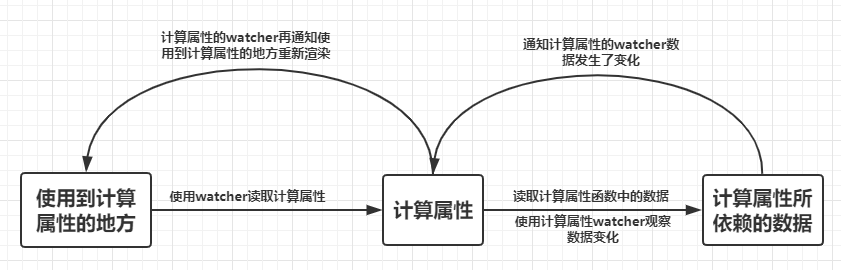
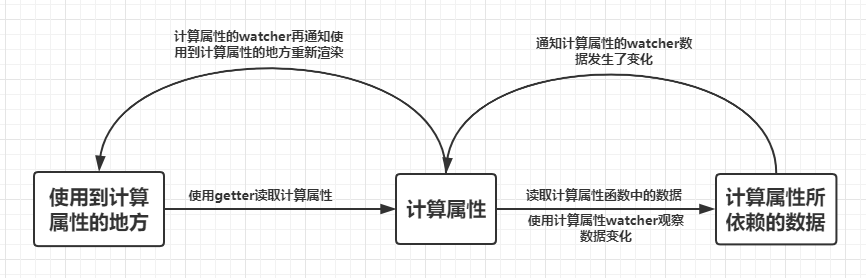
feat: 修改computed初始化时的逻辑

diff --git a/docs/lifecycle/initState.md b/docs/lifecycle/initState.md
@@ -888,8 +888,6 @@ if (!isReserved(key)) {
 observe(data, true /* asRootData */)
 ```
 
-
-
 ## 6. 初始化computed
 
 计算属性`computed`相信大家一定不会陌生，在日常开发中肯定会经常用到，而且我们知道计算属性有一个很大的特点就是： 计算属性的结果会被缓存，除非依赖的响应式属性变化才会重新计算。 那么接下来我们就来看一下计算属性是如何实现这些功能的的。
@@ -973,7 +971,7 @@ function initComputed (vm: Component, computed: Object) {
 const watchers = vm._computedWatchers = Object.create(null)
 ```
 
-接着，遍历`computed`选项中的每一项属性，首先获取到每一项的属性值，记作`userDef`，然后判断`userDef`是不是一个函数，如果是函数，则该函数默认为取值器`getter`，将其赋值给变量`getter`；如果不是函数，则说明是一个对象，则取对象中的`get`属性作为取值器赋给变量`getter`。如下：
+接着，遍历用户写的`computed`选项中的每一项属性，首先获取到每一项的属性值，记作`userDef`，然后判断`userDef`是不是一个函数，如果是函数，则将该函数默认为取值器`getter`，将其赋值给变量`getter`；如果不是函数，则说明是一个对象，则取对象中的`get`属性作为取值器赋给变量`getter`。如下：
 
 ```javascript
 const userDef = computed[key]
@@ -991,7 +989,7 @@ if (process.env.NODE_ENV !== 'production' && getter == null) {
 }
 ```
 
-接着判断如果不是在服务端渲染环境下，则创建一个`watcher`实例，并将当前循环到的的属性名作为键，创建的`watcher`实例作为值存入`watchers`对象中。如下：
+接着判断如果不是在服务端渲染环境下，则为 `computed` 选项中的每一项属性创建一个 `watcher` 实例，并将当前循环到的的属性名作为键，创建的`watcher` 实例作为值，存入 `watchers` 对象中。如下：
 
 ```javascript
 if (!isSSR) {
@@ -1005,15 +1003,21 @@ if (!isSSR) {
 }
 ```
 
-最后，判断当前循环到的的属性名是否存在于当前实例`vm`上，如果存在，则在非生产环境下抛出警告；如果不存在，则调用`defineComputed`函数为实例`vm`上设置计算属性。
+其中，上面代码中创建 `watcher` 实例时所传入的 `getter` 就是取到用户所写的该计算属性的取值器。而 `computedWatcherOptions` 参数如下：
 
-以上就是`initComputed`函数的内部逻辑，接下里我们再来看一下`defineComputed`函数是如何为实例`vm`上设置计算属性的。
+```javascript
+const computedWatcherOptions = { lazy: true }
+```
+
+这个参数是用来标记当前所创建的 `watcher` 实例是一个计算属性的 `watcher` 实例，给它一个 `{ lazy: true }` 的配置，这是为将来计算属性值缓存做准备。众所周知，计算属性有个特点就是它可以缓存当前的计算结果，也就是说如果某个计算属性所依赖的数据没有发生变化，那么该计算属性就不会去重复计算，会直接获取上一次的计算结果。这个 `{ lazy: true }` 就是给计算属性做缓存时用的。
+
+最后，判断当前循环到的的属性名是否存在于当前实例 `vm` 上，如果存在，则在非生产环境下抛出警告；如果不存在，则调用 `defineComputed` 函数为实例 `vm` 上设置计算属性。
+
+以上就是 `initComputed` 函数的内部逻辑，接下来我们再来看一下 `defineComputed` 函数是如何为实例 `vm` 上设置计算属性的。
 
 ### 6.3 defineComputed函数分析
 
-
-
-`defineComputed`函数的定义位于源码的`src/core/instance/state.js`中，如下：
+`defineComputed` 函数的定义位于源码的 `src/core/instance/state.js` 中，如下：
 
 ```javascript
 const sharedPropertyDefinition = {
@@ -1055,41 +1059,55 @@ export function defineComputed (target,key,userDef) {
 
 ```
 
-该函数接受3个参数，分别是：`target`、`key`和`userDef`。其作用是为`target`上定义一个属性`key`，并且属性`key`的`getter`和`setter`根据`userDef`的值来设置。下面我们就来看一下该函数的具体逻辑。
+该函数接受3个参数，分别是：`target` 、 `key` 和 `userDef` 。其作用是为 `target` 上定义一个属性 `key` ，并且属性 `key` 的 `getter` 和 `setter` 根据 `userDef` 的值来设置。下面我们就来看一下该函数的具体逻辑。
 
-首先定义了变量`sharedPropertyDefinition`，它是一个默认的属性描述符。
+首先定义了变量 `sharedPropertyDefinition` ，它是一个默认的属性描述符，如下：
 
-接着，在函数内部定义了变量`shouldCache`，用于标识计算属性是否应该有缓存。该变量的值是当前环境是否为非服务端渲染环境，如果是非服务端渲染环境则该变量为`true`。也就是说，只有在非服务端渲染环境下计算属性才应该有缓存。如下：
+```javascript
+const sharedPropertyDefinition = {
+  enumerable: true,
+  configurable: true,
+  get: noop,
+  set: noop
+}
+```
+
+接着，在函数内部定义了变量 `shouldCache` ，用于标识计算属性是否应该有缓存。该变量的值是当前环境是否为非服务端渲染环境，如果是非服务端渲染环境则该变量为 `true` 。也就是说，只有在非服务端渲染环境下计算属性才应该有缓存。如下：
 
 ```javascript
 const shouldCache = !isServerRendering()
 ```
 
-接着，判断如果`userDef`是一个函数，则该函数默认为取值器`getter`，此处在非服务端渲染环境下并没有直接使用`userDef`作为`getter`，而是调用`createComputedGetter`函数（关于该函数下面会介绍）创建了一个`getter`，这是因为`userDef`只是一个普通的`getter`，它并没有缓存功能，所以我们需要额外创建一个具有缓存功能的`getter`，而在服务端渲染环境下可以直接使用`userDef`作为`getter`，因为在服务端渲染环境下计算属性不需要缓存。由于用户没有设置`setter`函数，所以将`sharedPropertyDefinition.set`设置为`noop`。如下：
+接着，判断如果 `userDef` 是一个函数，则该函数默认为取值器 `getter` ，此处在非服务端渲染环境下并没有直接使用 `userDef` 作为 `getter` ，而是调用 `createComputedGetter` 函数（关于该函数下面会介绍）创建了一个 `getter` ，这是因为 `userDef` 只是一个普通的 `getter` ，它并没有缓存功能，所以我们需要额外创建一个具有缓存功能的 `getter` 。由于用户没有设置 `setter` 函数，所以将 `sharedPropertyDefinition.set` 设置为 `noop` 。如下：
 
 ```javascript
+/*创建计算属性的getter*/
 if (typeof userDef === 'function') {
-    sharedPropertyDefinition.get = shouldCache
-        ? createComputedGetter(key)
-    : userDef
-    sharedPropertyDefinition.set = noop
+  sharedPropertyDefinition.get = shouldCache
+    ? createComputedGetter(key)
+    : createGetterInvoker(userDef)
+  /*
+    当userDef是一个function的时候是不需要setter的，所以这边给它设置成了空函数。
+    因为计算属性默认是一个function，只设置getter。
+    当需要设置setter的时候，会将计算属性设置成一个对象。
+  */
+  sharedPropertyDefinition.set = noop
 }
 ```
 
-如果`userDef`不是一个函数，那么就将它当作对象处理。在设置`sharedPropertyDefinition.get`的时候先判断`userDef.get`是否存在，如果不存在，则将其设置为`noop`，如果存在，则同上面一样，在非服务端渲染环境下并且用户没有明确的将`userDef.cache`设置为`false`时调用`createComputedGetter`函数创建一个`getter`赋给`sharedPropertyDefinition.get`。然后设置`sharedPropertyDefinition.set`为`userDef.set`函数。如下：
+如果 `userDef` 不是一个函数，那么就将它当作对象处理。在设置 `sharedPropertyDefinition.get` 的时候先判断 `userDef.get` 是否存在，如果不存在，则将其设置为 `noop` ，如果存在，则同上面一样，在非服务端渲染环境下并且用户没有明确的将 `userDef.cache` 设置为 `false` 时调用 `createComputedGetter` 函数创建一个 `getter` 赋给 `sharedPropertyDefinition.get` 。然后设置 `sharedPropertyDefinition.set` 为 `userDef.set` 函数。如下：
 
 ```javascript
 sharedPropertyDefinition.get = userDef.get
-      ? shouldCache && userDef.cache !== false
-        ? createComputedGetter(key)
-        : userDef.get
-      : noop
-sharedPropertyDefinition.set = userDef.set
-    ? userDef.set
-	: noop
+  ? shouldCache && userDef.cache !== false
+    ? createComputedGetter(key)
+    : createGetterInvoker(userDef.get)
+  : noop
+/*如果有设置set方法则直接使用，否则赋值空函数*/
+sharedPropertyDefinition.set = userDef.set || noop
 ```
 
-接着，再判断在非生产环境下如果用户没有设置`setter`的话，那么就给`setter`一个默认函数，这是为了防止用户在没有设置`setter`的情况下修改计算属性，从而为其抛出警告，如下：
+接着，再判断在非生产环境下如果用户没有设置 `setter` 的话，那么就给 `setter` 一个默认函数，这是为了防止用户在没有设置 `setter` 的情况下修改计算属性，从而为其抛出警告，如下：
 
 ```javascript
 if (process.env.NODE_ENV !== 'production' &&
@@ -1103,9 +1121,9 @@ if (process.env.NODE_ENV !== 'production' &&
 }
 ```
 
-最后调用`Object.defineProperty`方法将属性`key`绑定到`target`上，其中的属性描述符就是上面设置的`sharedPropertyDefinition`。如此以来，就将计算属性绑定到实例`vm`上了。
+最后调用 `Object.defineProperty` 方法将属性 `key` 绑定到 `target` 上，其中的属性描述符就是上面设置的 `sharedPropertyDefinition` 。如此以来，就将计算属性绑定到实例 `vm` 上了。
 
-以上就是`defineComputed`函数的所有逻辑。另外，我们发现，计算属性有没有缓存及其响应式貌似主要在于是否将`getter`设置为`createComputedGetter`函数的返回结果。那么接下来，我们就对这个`createComputedGetter`函数一探究竟。
+以上就是 `defineComputed` 函数的所有逻辑。另外，我们发现，计算属性有没有缓存及其响应式貌似主要在于是否将 `getter` 设置为 `createComputedGetter` 函数的返回结果。那么接下来，我们就对这个 `createComputedGetter` 函数一探究竟。
 
 ### 6.4 createComputedGetter函数分析
 
@@ -1113,127 +1131,149 @@ if (process.env.NODE_ENV !== 'production' &&
 
 ```javascript
 function createComputedGetter (key) {
-    return function computedGetter () {
-        const watcher = this._computedWatchers && this._computedWatchers[key]
-        if (watcher) {
-            watcher.depend()
-            return watcher.evaluate()
-        }
+  return function computedGetter () {
+    const watcher = this._computedWatchers && this._computedWatchers[key]
+    if (watcher) {
+      /*实际是脏检查，在计算属性中的依赖发生改变的时候dirty会变成true，
+      在get的时候重新计算计算属性的输出值*/
+      if (watcher.dirty) {
+        watcher.evaluate()
+      }
+      /*依赖收集*/
+      if (Dep.target) {
+        watcher.depend()
+      }
+      return watcher.value
     }
+  }
 }
 ```
 
-可以看到，该函数是一个高阶函数，其内部返回了一个`computedGetter`函数，所以其实是将`computedGetter`函数赋给了`sharedPropertyDefinition.get`。当获取计算属性的值时会执行属性的`getter`，而属性的`getter`就是 `sharedPropertyDefinition.get`，也就是说最终执行的 `computedGetter`函数。
+可以看到，该函数是一个高阶函数，其内部返回了一个叫做 `computedGetter` 的函数，所以其实是将 `computedGetter` 函数赋给了 `sharedPropertyDefinition.get` 。当获取计算属性的值时会执行属性的 `getter` ，而属性的 `getter` 就是 `sharedPropertyDefinition.get` ，也就是说最终执行的 `computedGetter` 函数。
 
-在`computedGetter`函数内部，首先存储在当前实例上`_computedWatchers`属性中`key`所对应的`watcher`实例，如果`watcher`存在，则调用`watcher`实例上的`depend`方法和`evaluate`方法，并且将`evaluate`方法的返回值作为计算属性的计算结果返回。那么`watcher`实例上的`depend`方法和`evaluate`方法又是什么呢？
+在 `computedGetter` 函数内部，首先获取之前创建好的存储在实例上 `_computedWatchers` 属性中当前计算属性名 `key` 所对应的 `watcher` 实例，如下：
+
+```javascript
+const watcher = this._computedWatchers && this._computedWatchers[key]
+```
+
+如果 `watcher` 实例存在，则判断该实例上的 `dirty` 属性是否为 `true` ，如果为 `true` ，即表明当前计算属性的计算结果发生了变化，则立即调用实例上的 `evaluate` 方法获取最新的计算结果，在 `evaluate` 方法内部会将最新的计算结果赋值给实例上的 `value` 属性（在下面会介绍），如下：
+
+```javascript
+if (watcher.dirty) {
+  watcher.evaluate()
+}
+```
+
+如果当前有需要收集的依赖，则调用实例上的 `depend` 方法进行依赖收集，如下：
+
+```javascript
+if (Dep.target) {
+  watcher.depend()
+}
+```
+
+最后，返回实例上的 `value` 属性，该属性即为当前计算属性的最终计算结果。
+那么 `watcher` 实例上的 `depend` 方法和 `evaluate` 方法又是什么呢？
 
 ### 6.5 depend和evaluate
 
-回顾上文中创建`watcher`实例的时候：
-
-```javascript
-const computedWatcherOptions = { computed: true }
-watchers[key] = new Watcher(
-    vm,
-    getter || noop,
-    noop,
-    computedWatcherOptions
-)
-```
-
-传入的参数中第二个参数是`getter`函数，第四个参数是一个对象`computedWatcherOptions`。
-
-我们再回顾`Watcher`类的定义，如下：
+我们再回顾 `Watcher` 类的定义，如下：
 
 ```javascript
 export default class Watcher {
-    constructor (vm,expOrFn,cb,options,isRenderWatcher) {
-        if (options) {
-            // ...
-            this.computed = !!options.computed
-            // ...
-        } else {
-            // ...
-        }
-
-        this.dirty = this.computed // for computed watchers
-        if (typeof expOrFn === 'function') {
-            this.getter = expOrFn
-        }
-
-        if (this.computed) {
-            this.value = undefined
-            this.dep = new Dep()
-        }
+  constructor (vm,expOrFn,cb,options,isRenderWatcher) {
+    if (options) {
+      // ...
+      this.lazy = !!options.lazy
+      // ...
+    } else {
+      // ...
     }
 
-    evaluate () {
-        if (this.dirty) {
-            this.value = this.get()
-            this.dirty = false
-        }
-        return this.value
+    this.dirty = this.lazy 
+    /*把表达式expOrFn解析成getter*/
+    if (typeof expOrFn === 'function') {
+      this.getter = expOrFn
+    } else {
+      this.getter = parsePath(expOrFn)
+      if (!this.getter) {
+        this.getter = noop
+      }
     }
 
-    /**
-     * Depend on this watcher. Only for computed property watchers.
-     */
-    depend () {
-        if (this.dep && Dep.target) {
-            this.dep.depend()
-        }
-    }
+    this.value = this.lazy
+      ? undefined
+      : this.get()
+  }
 
-    update () {
-        if (this.computed) {
-            if (this.dep.subs.length === 0) {
-                this.dirty = true
-            } else {
-                this.getAndInvoke(() => {
-                    this.dep.notify()
-                })
-            }
-        }
-    }
+  evaluate () {
+    this.value = this.get()
+    this.dirty = false
+  }
 
-    getAndInvoke (cb: Function) {
-        const value = this.get()
-        if (
-            value !== this.value ||
-            // Deep watchers and watchers on Object/Arrays should fire even
-            // when the value is the same, because the value may
-            // have mutated.
-            isObject(value) ||
-            this.deep
-        ) {
-            // set new value
-            const oldValue = this.value
-            this.value = value
-            this.dirty = false
-            if (this.user) {
-                try {
-                    cb.call(this.vm, value, oldValue)
-                } catch (e) {
-                    handleError(e, this.vm, `callback for watcher "${this.expression}"`)
-                }
-            } else {
-                cb.call(this.vm, value, oldValue)
-            }
-        }
+  /**
+    * Depend on this watcher. Only for computed property watchers.
+    */
+  depend () {
+    if (this.dep && Dep.target) {
+      this.dep.depend()
     }
+  }
+
+  // 当依赖发生改变的时候触发回调。
+  update () {
+    /* istanbul ignore else */
+    if (this.lazy) {
+      this.dirty = true
+    } else if (this.sync) {
+      /*同步则执行run直接渲染视图*/
+      this.run()
+    } else {
+      /*异步推送到观察者队列中，下一个tick时调用。*/
+      queueWatcher(this)
+    }
+  }
 }
 ```
 
-可以看到，在实例化`Watcher`类的时候，第四个参数传入了一个对象`computedWatcherOptions = { computed: true }`，该对象中的`computed`属性标志着这个`watcher`实例是计算属性的`watcher`实例，即`Watcher`类中的`this.computed`属性，同时类中还定义了`this.dirty`属性用于标志计算属性的返回值是否有变化，计算属性的缓存就是通过这个属性来判断的，每当计算属性依赖的数据发生变化时，会将`this.dirty`属性设置为`true`，这样下一次读取计算属性时，会重新计算结果返回，否则直接返回之前的计算结果。
+可以看到，在实例化 `Watcher` 类的时候，第四个参数传入了一个对象 `computedWatcherOptions = { lazy: true }` ，该对象中的 `lazy` 属性标志着这个 `watcher` 实例是计算属性的 `watcher` 实例，同时类中还定义了 `this.dirty` 属性用于标志计算属性的返回值是否有变化，计算属性的缓存就是通过这个属性来判断的，每当计算属性依赖的数据发生变化时，会将 `this.dirty` 属性设置为 `true` ，这样下一次读取计算属性时，会重新计算结果返回，否则直接返回之前的计算结果。
 
-当调用`watcher.depend()`方法时，会将读取计算属性的那个`watcher`添加到计算属性的`watcher`实例的依赖列表中，当计算属性中用到的数据发生变化时，计算属性的`watcher`实例就会执行`watcher.update()`方法，在`update`方法中会判断当前的`watcher`是不是计算属性的`watcher`，如果是则调用`getAndInvoke`去对比计算属性的返回值是否发生了变化，如果真的发生变化，则执行回调，通知那些读取计算属性的`watcher`重新执行渲染逻辑。
+我们可以这样想，当我们在组件中定义了一个计算属性 `name` 并且在视图中使用了该属性时，视图第一次刷新会去获取 `name` 的属性值，此时就会调用该属性值的 `getter` 方法，这个 `getter` 方法就是 `computedGetter` ，如下：
 
-当调用`watcher.evaluate()`方法时，会先判断`this.dirty`是否为`true`，如果为`true`，则表明计算属性所依赖的数据发生了变化，则调用`this.get()`重新获取计算结果最后返回；如果为`false`，则直接返回之前的计算结果。
+```javascript
+function computedGetter () {
+  const watcher = this._computedWatchers && this._computedWatchers[key]
+  if (watcher) {
+    if (watcher.dirty) {
+      watcher.evaluate()
+    }
+    if (Dep.target) {
+      watcher.depend()
+    }
+    return watcher.value
+  }
+}
+```
+
+第一次 `watcher.dirty` 值默认为 `true` ，此时就会去调用 `watcher.evaluate` 方法，在该方法中会调用 `watcher.get` 方法获取当前计算属性值并将其赋值给 `watcher.value` 属性，同时将 `watcher.dirty` 改为 `false` ，如下：
+
+```javascript
+evaluate () {
+  this.value = this.get()
+  this.dirty = false
+}
+```
+
+接着，当计算属性中用到的数据发生变化时，计算属性的 `watcher` 实例就会执行 `watcher.update` 方法，在 `update` 方法中会判断 `this.lazy` 是否为 `true`，如果为 `true` 则表明这个 `watcher` 实例是计算属性的 `watcher` 实例，那么就将 `watcher.dirty` 变为 `true` ，这样当视图再次获取 `{{name}}` 时，就会重新调用 `watcher.evaluate` 方法来获取最新的计算属性值。
+
+**如果计算属性中用到的数据没有发生变化，那么计算属性的 `watcher` 实例的 `watcher.update` 方法就不会执行，那么 `watcher.dirty` 就不会被变为 `true` ，依然为 `false` ，那么当视图再次获取 `name` 时，就不会调用 `watcher.evaluate` 方法，直接返回已有的 `watcher.value` ，即上一次的计算结果。**
+
+这就是计算属性为什么会有缓存数据的原因。
 
 其内部原理如图所示：
 
 ![](~@/lifecycle/2.png)
-
 
 ## 7. 初始化watch
 
